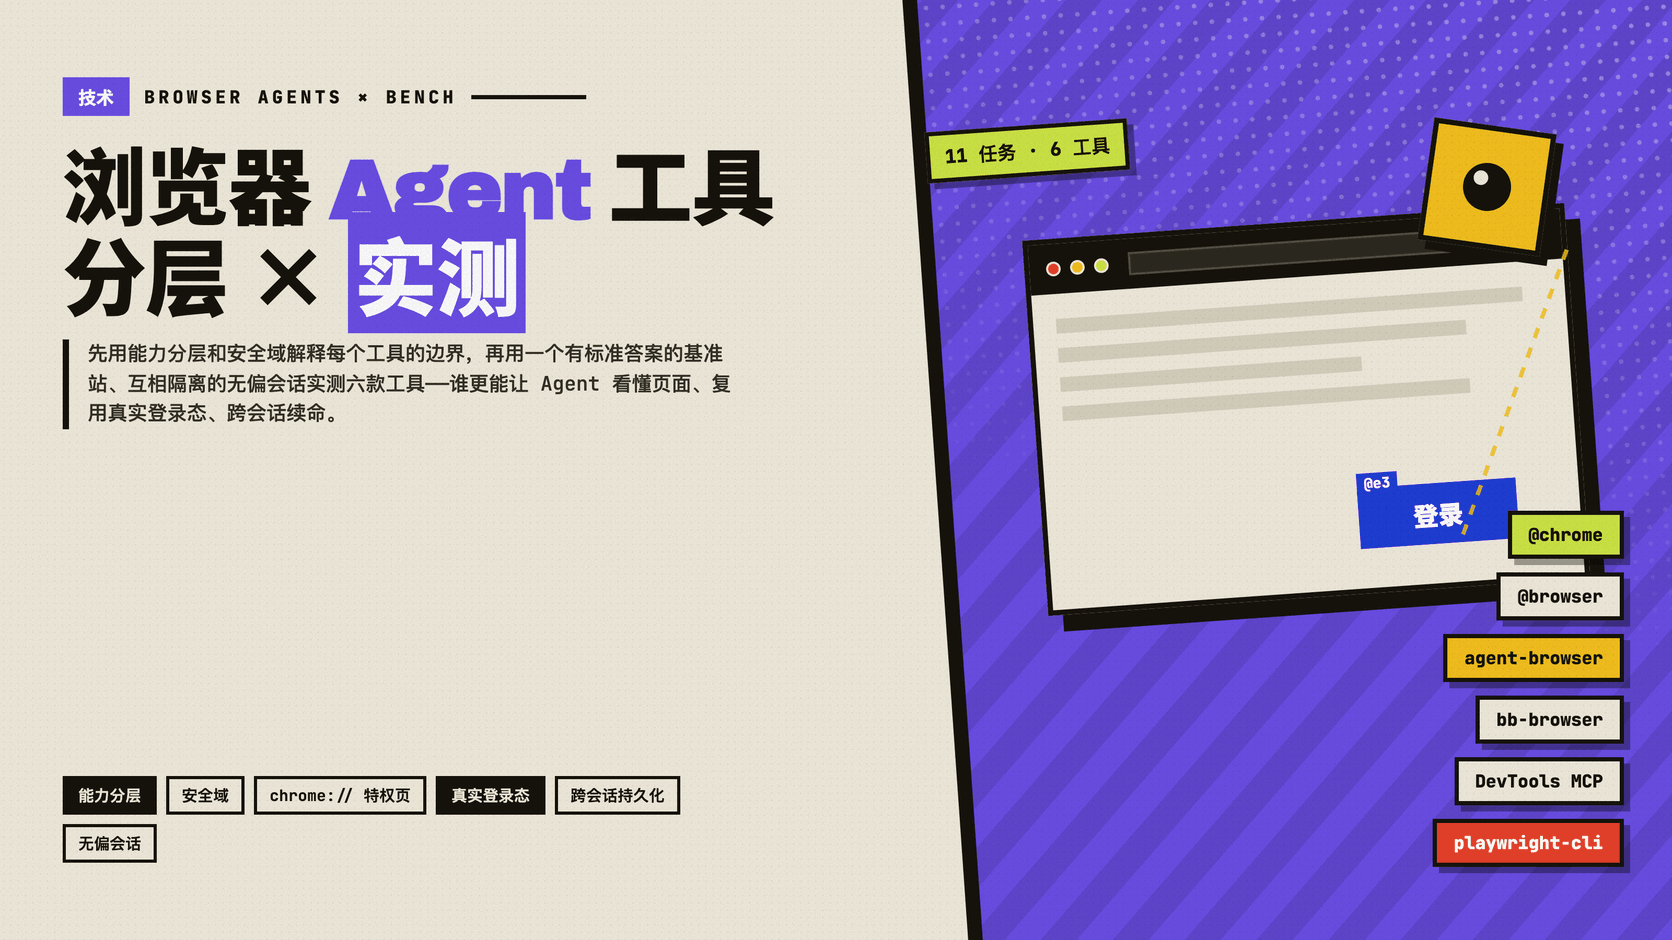
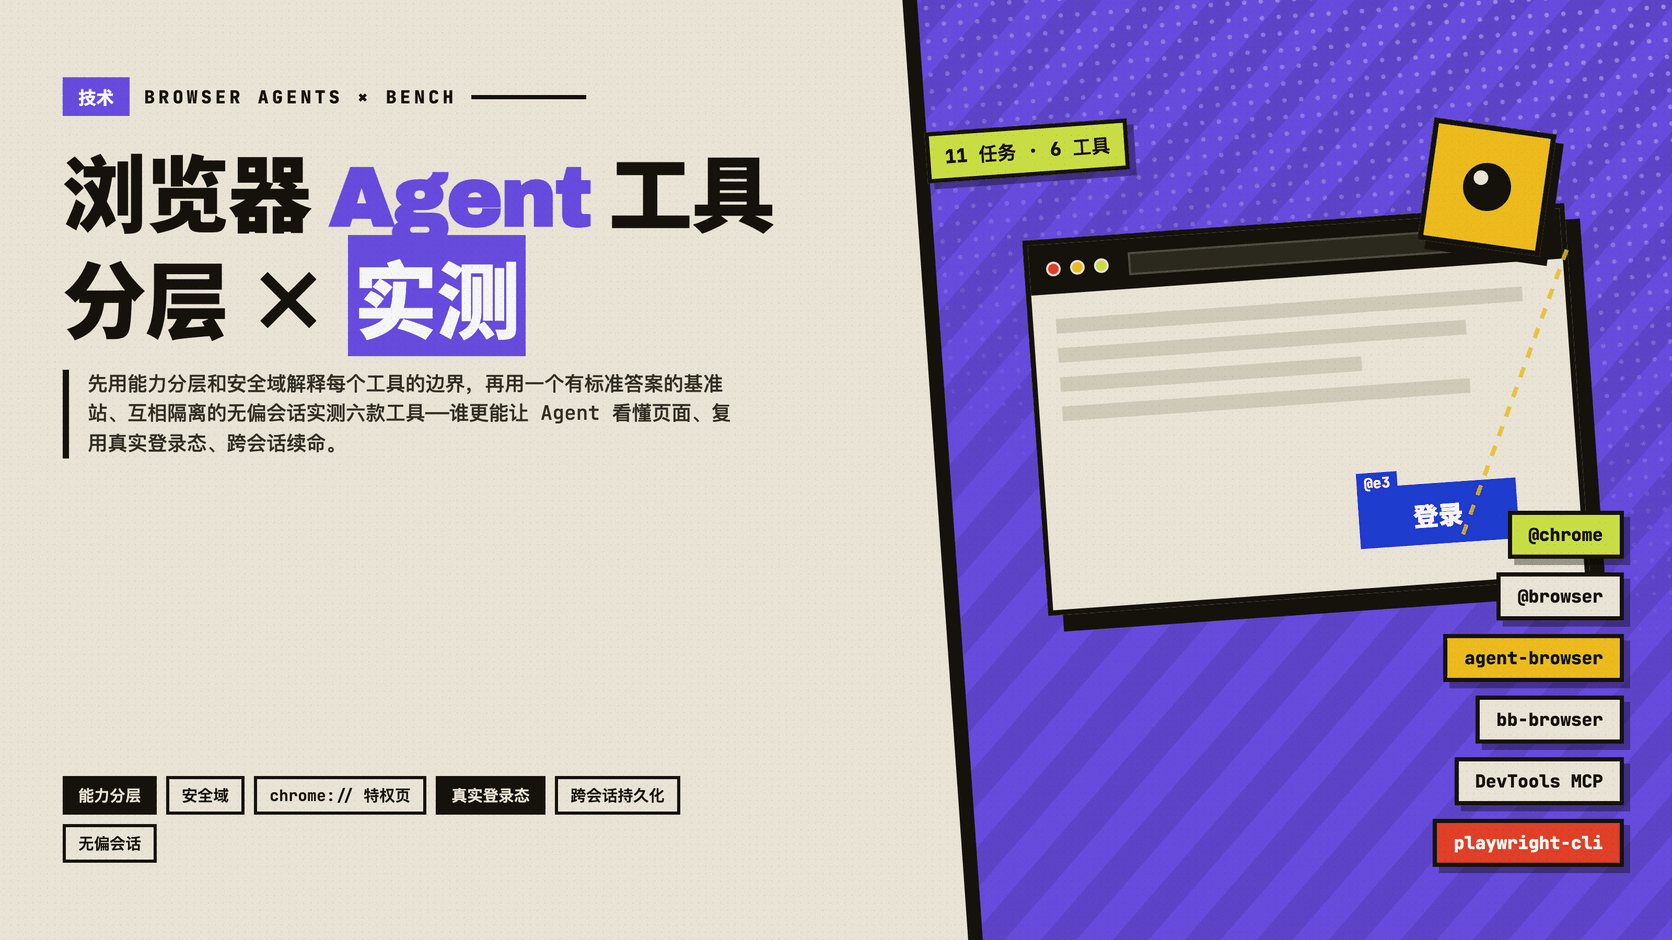
fix(cover): 修复横评封面标题 Agent 与「实测」上下重叠
拉丁显示字 Archivo Black 字高偏大，line-height:.99 下两行标题相撞。
模板支持 per-cover titleLH，本篇设 1.16；新增 render-one.mjs 用
agent-browser 自管无头实例重渲单张，不占用日常 Chrome（9223）。

Changed region(s): [[0.0311, 0.1543, 0.4665, 0.4936]]

diff --git a/design-demos/cover-gen/covers.js b/design-demos/cover-gen/covers.js
@@ -220,7 +220,7 @@ window.COVERS = (function () {
     {
       slug: "browser-agent-bench", dir: "2026/06/12/浏览器-agent-工具实测-六工具八任务横评",
       scene: "browser", cat: "技术", en: "BROWSER AGENTS × BENCH", accent: "violet",
-      titleSize: 80, title: `浏览器 <span class="hv latin">Agent</span> 工具<br>分层 × <em style="background:var(--violet);color:#fff">实测</em>`,
+      titleSize: 80, titleLH: 1.16, title: `浏览器 <span class="hv latin">Agent</span> 工具<br>分层 × <em style="background:var(--violet);color:#fff">实测</em>`,
       sub: "先用能力分层和安全域解释每个工具的边界，再用一个有标准答案的基准站、互相隔离的无偏会话实测六款工具——谁更能让 Agent 看懂页面、复用真实登录态、跨会话续命。",
       kw: ["能力分层", "安全域", "chrome:// 特权页", "真实登录态", "跨会话持久化", "无偏会话"],
       stageHTML: `

diff --git a/design-demos/cover-gen/template.html b/design-demos/cover-gen/template.html
@@ -241,7 +241,7 @@ const poster = document.getElementById("poster");
 
 function labelRow(d, catColor){return `<div class="label"><span class="cat" style="background:${catColor||accent}">${d.cat}</span><span class="en">${d.en}</span><span class="line"></span></div>`;}
 function leftText(d, dark){return `<div class="text ${dark?'on-dark':''}">${labelRow(d, d.scene==='feed'?ACCENT.red:accent)}
-  <h1 style="font-size:${d.titleSize||80}px">${d.title}</h1>
+  <h1 style="font-size:${d.titleSize||80}px${d.titleLH?`;line-height:${d.titleLH}`:''}">${d.title}</h1>
   <p class="sub">${d.sub}</p>
   <div class="kw">${(d.kw||[]).map((k,i)=>`<span class="${i%3===0?'on':''}">${k}</span>`).join("")}</div></div>`;}
 
